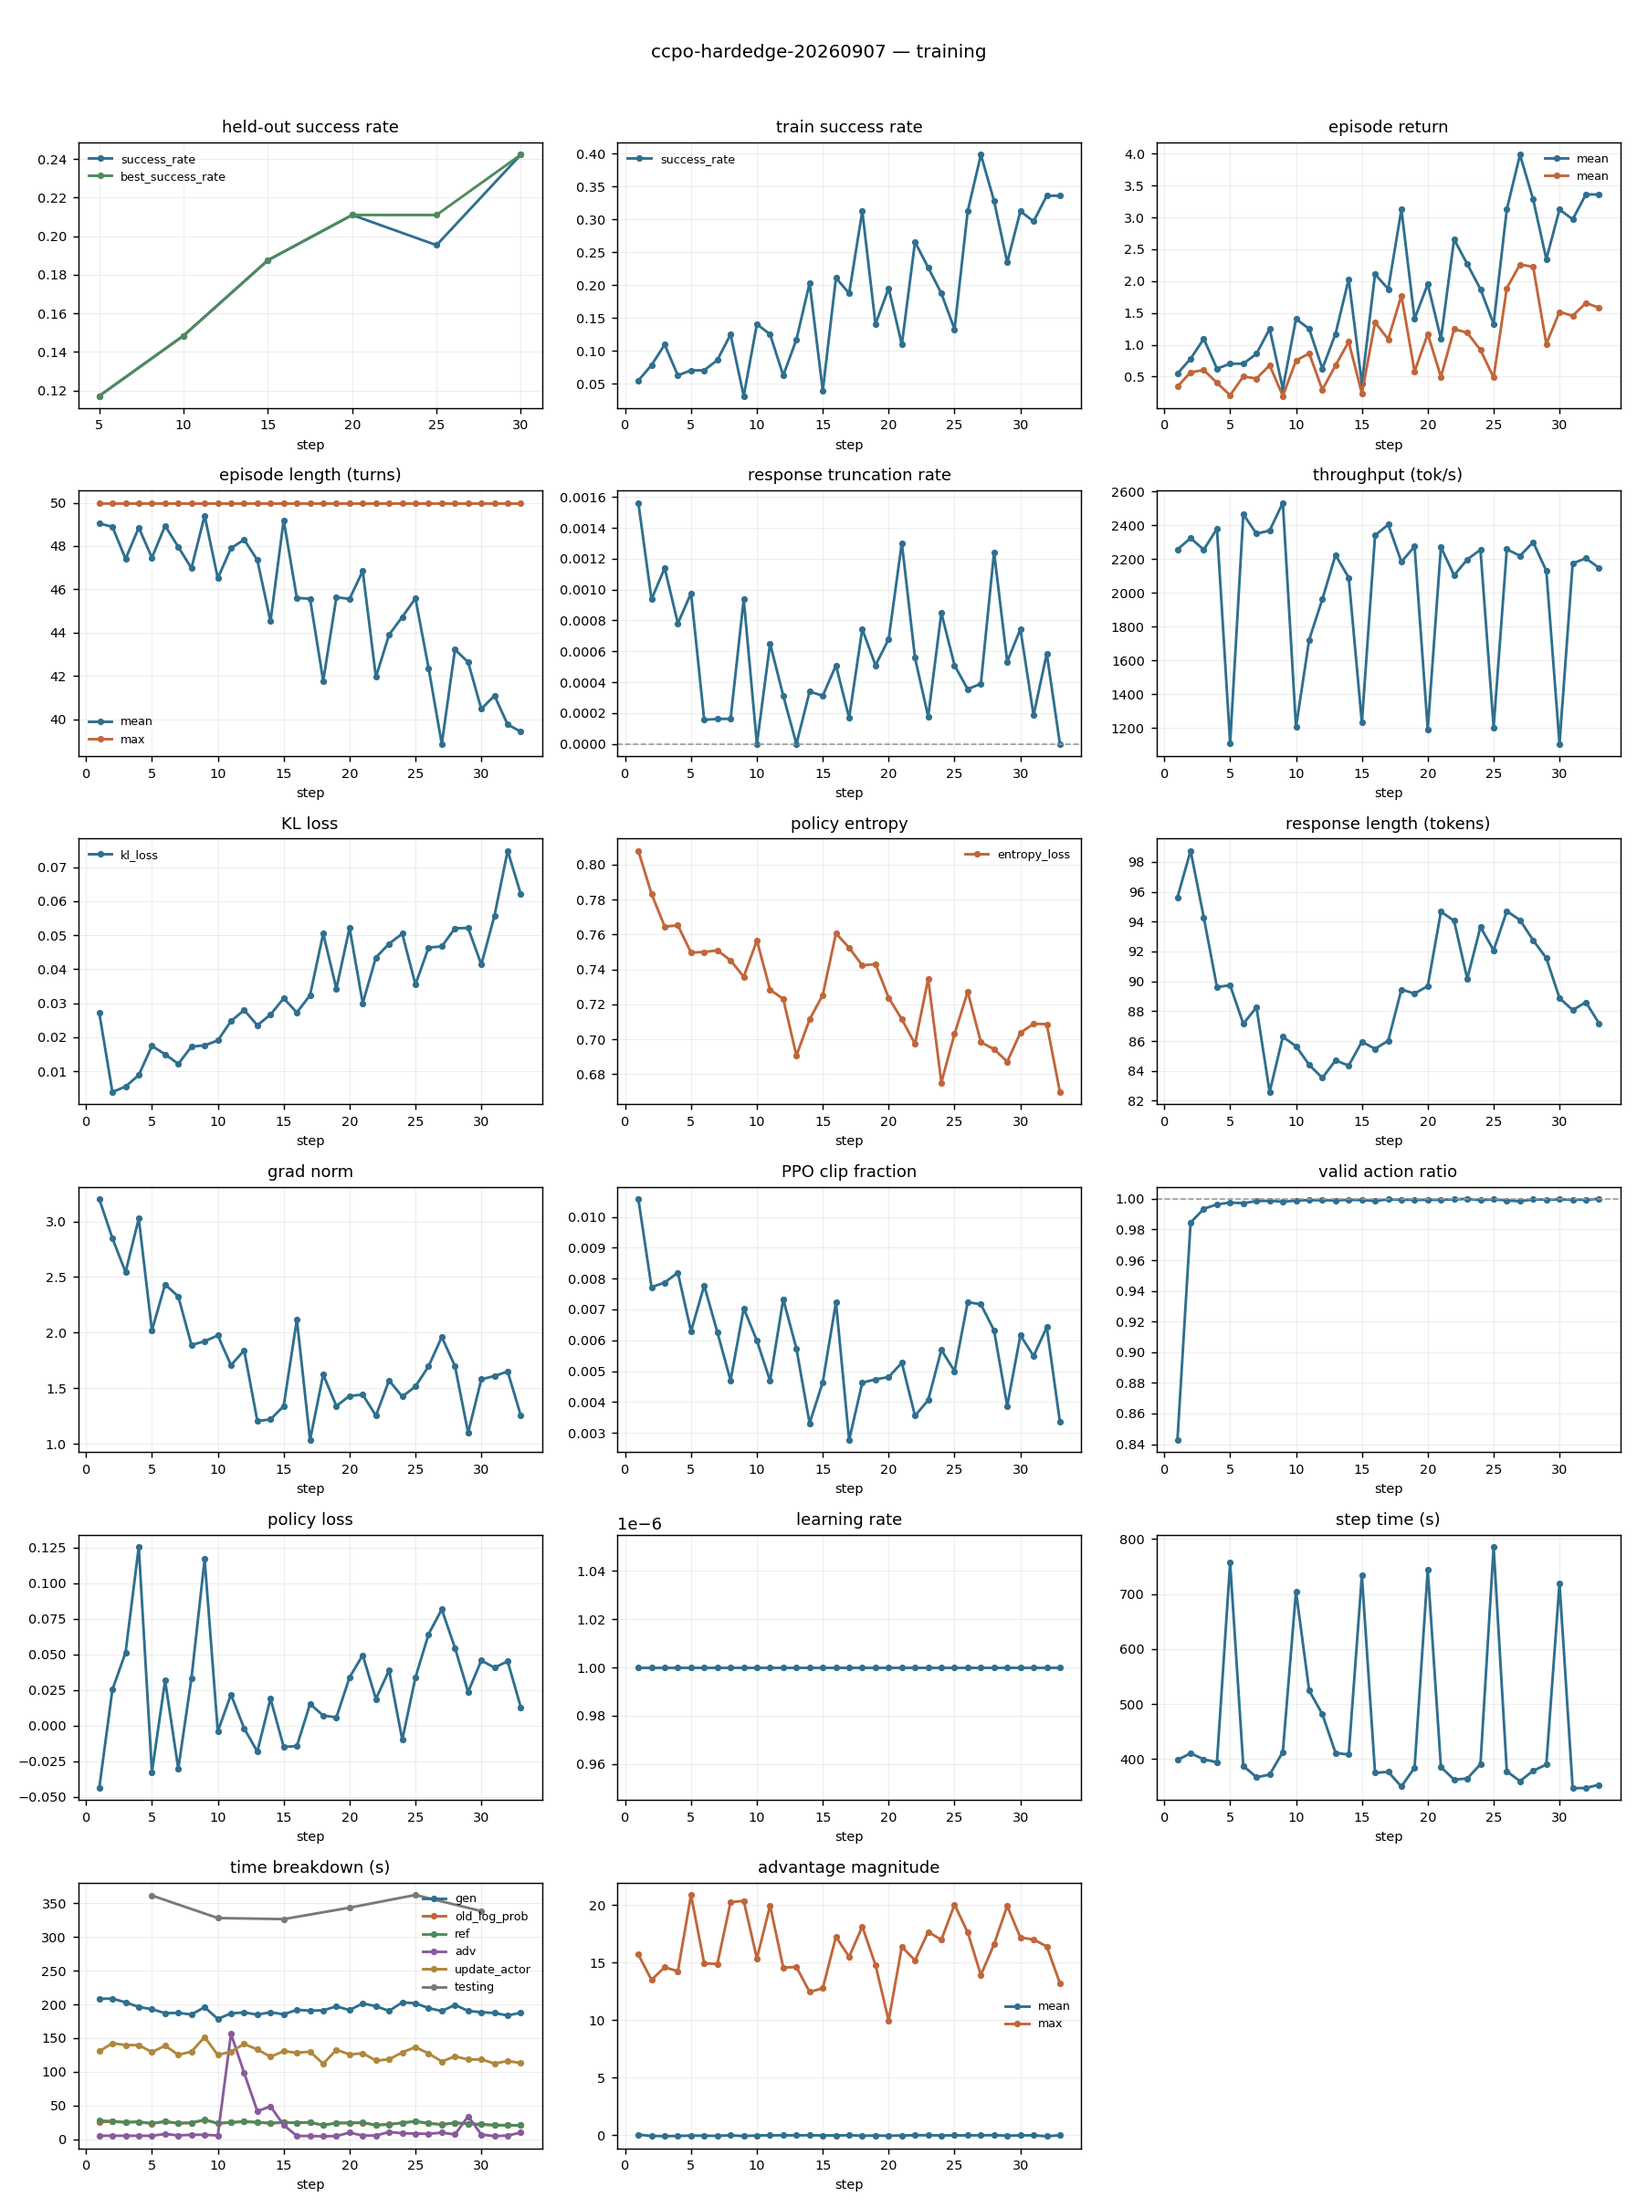
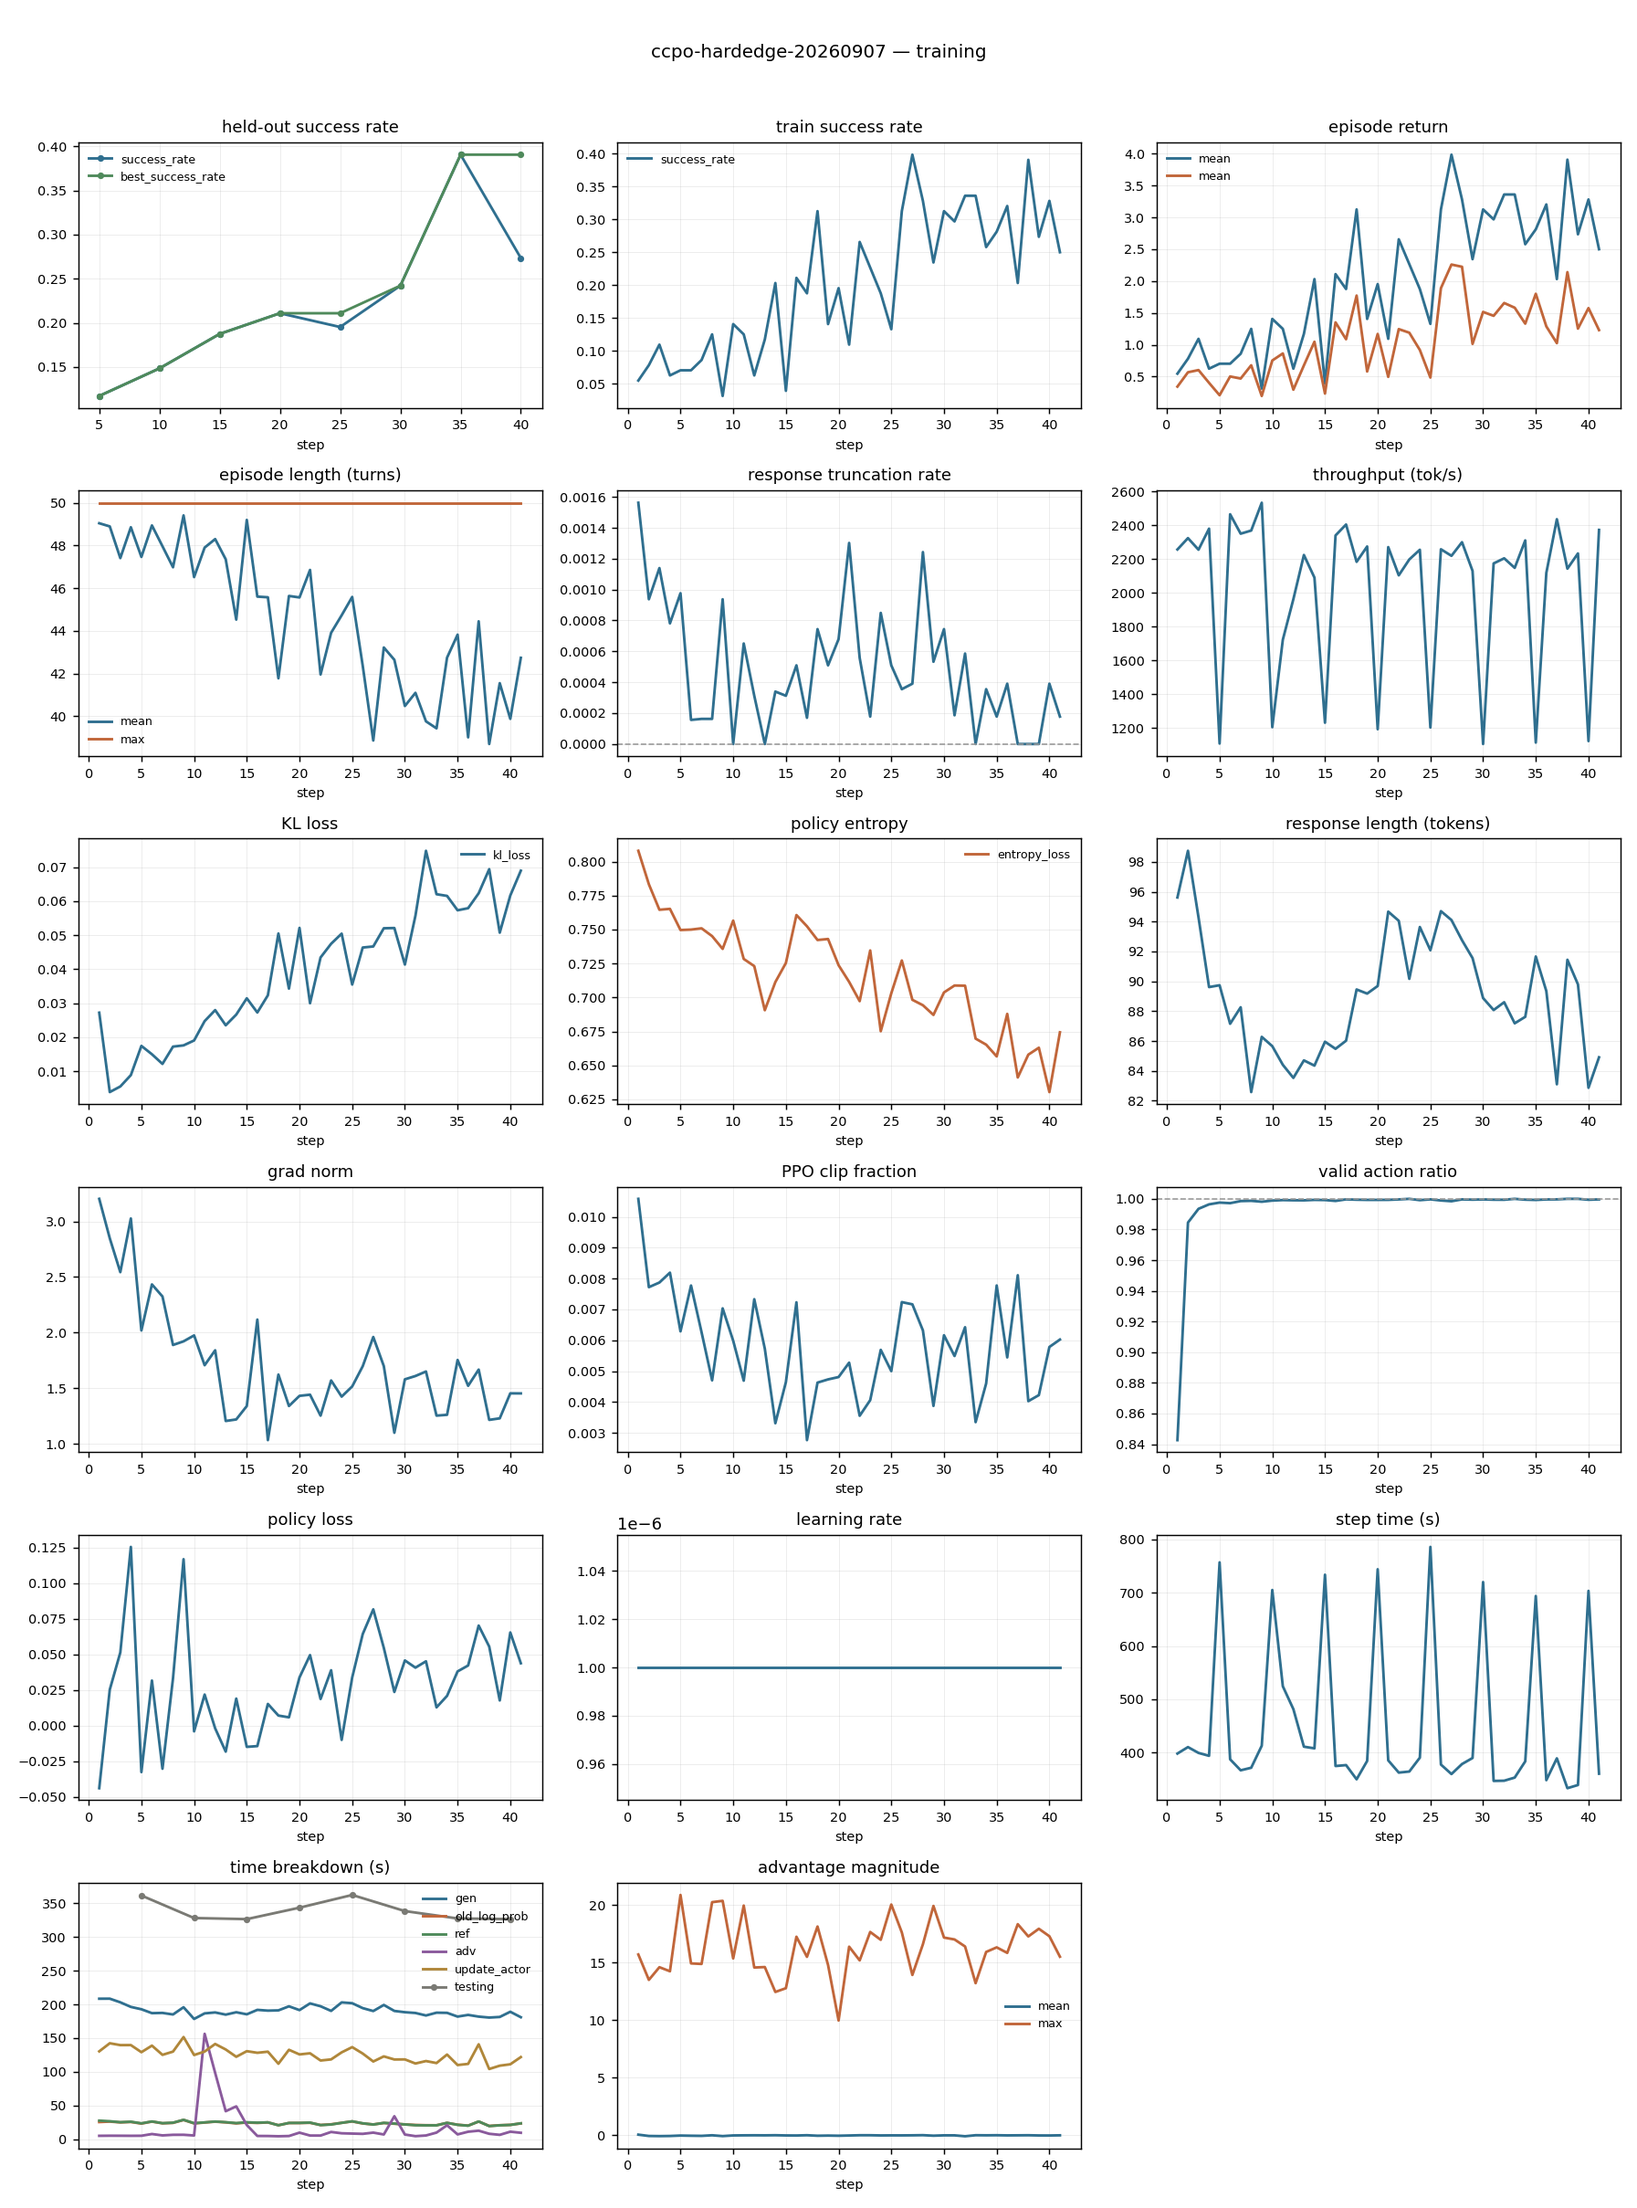
H-P: the running ablation is CCPO ON vs OFF, not gate vs gate
I labelled ccpo-hardedge as 'hard gate vs global gate with the edge term held
fixed'. Wrong: under the hard gate the EB shrinkage collapses to lambda=0.0106, so
98.9% of the weight sits on the uniform bucket mean and effect_rel is 0.0014. That
arm is GiGPO grouping + G2PO target + G2PO edge term with context conditioning
switched OFF -- hence r_vs_g2po 0.909, closer to G2PO than the global arm's 0.891.

So the experiment actually running is context conditioning fully ON (lambda=1,
effect_rel 0.119) vs fully OFF, with every other knob identical. That is the
cleanest test of CCPO's central thesis in the project's history.

At step 40 of 100: mean delta +0.87 pts, 95% CI contains zero, sign flips four times
across eight evaluations. If it holds, the conclusion is that context conditioning
is inert on ALFWorld even when the machinery is made to work -- H-M fixed the
inertness mechanically and bought no performance -- and the 79.7% came from
restoring G2PO's edge term rather than from CCPO.

Conclusion held until step 100: the global arm's gains appeared between steps 70
and 100.

Claude-Session: https://claude.ai/code/session_01TnVw4qcXikRNMjxhmmuJXY

diff --git a/experiments/hypothesis.md b/experiments/hypothesis.md
@@ -59,6 +59,53 @@ before the action exists.
 
 ## Open — ranked by expected value
 
+### [~] H-P. **The `ccpo-hardedge` ablation is not gate-vs-gate — it is CCPO ON vs OFF**
+
+I launched `ccpo-hardedge-20260907` calling it "hard gate vs global gate, edge term
+held fixed". That label is wrong, and the truth makes it a *better* experiment.
+
+Under the hard gate the empirical-Bayes shrinkage collapses, as it has in every arm
+of this project:
+
+| | λ | `effect_rel` | λ>0.5 | `r_vs_g2po` |
+|---|---|---|---|---|
+| hard gate | **0.0106** | **0.0014** | 1.0% | 0.9090 |
+| global gate | 1.0000 | 0.1185 | 100% | 0.8909 |
+
+λ = 0.011 puts **98.9% of the weight on `b_obs`**, the plain uniform bucket mean.
+φ, the affinity weights and the whole context-conditioning apparatus contribute
+~1%, and the credit departs from the uniform baseline by **0.14%**. That arm is
+therefore *not* CCPO: it is **GiGPO's grouping + G²PO's node-value target + G²PO's
+edge term, with context conditioning switched off**, which is why it sits closer to
+G²PO (0.909) than the global arm does.
+
+**So the comparison actually running is:**
+
+> context conditioning fully ON (λ=1, `effect_rel` 0.119)
+> vs fully OFF (λ=0.01, `effect_rel` 0.001),
+> with target, edge term, prompt, seed and every other knob identical.
+
+That is the **cleanest test of CCPO's central thesis this project has run** — every
+earlier attempt was confounded, and the two 20-step arms never separated the
+estimator from the harness.
+
+**Result at step 40 of 100:** mean delta **+0.87 pts**, 95% CI containing zero over
+eight evaluations, sign flipping four times.
+
+**If this holds to step 100** the conclusion is stated plainly: *CCPO's context
+conditioning is inert on ALFWorld even when the machinery is made to work.* H-M
+fixed the inertness as a mechanism (`effect_rel` 0.000 → 0.119) and bought nothing
+in policy performance. The project's real results would then be:
+
+1. the **negative result** — context-conditioned grouping does not help on this
+   benchmark, established across φ variants (H-1), targets, shrinkage rules,
+   a measured 6.1% ceiling (H-H), and now a clean ON/OFF ablation;
+2. the **79.7%** number, which came from restoring G²PO's edge term, not from CCPO.
+
+Hold the conclusion until step 100 — the global arm's gains appeared late in its
+curve (63.3 → 79.7 between steps 70 and 100), so the informative region is ahead.
+
+
 ### [!] H-O. **The estimator is NOT why we underperform** — three suspects tested, all cleared
 
 Prompted by "why are we still underperforming": 79.7 (ours) vs 95.0 (G²PO) at an
